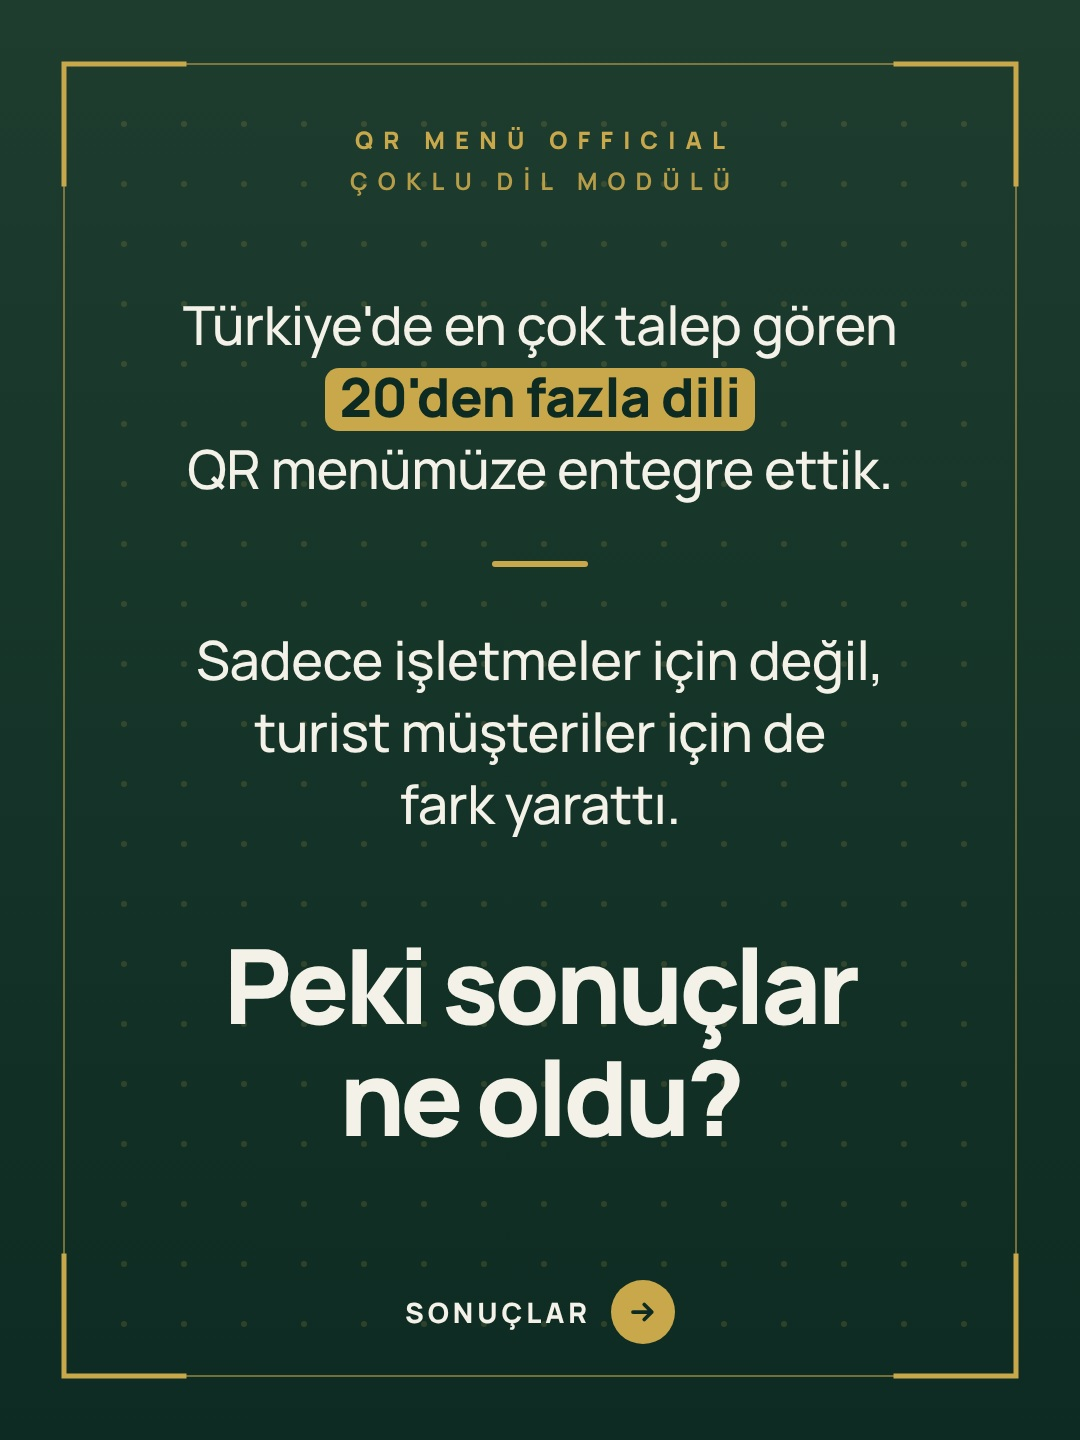
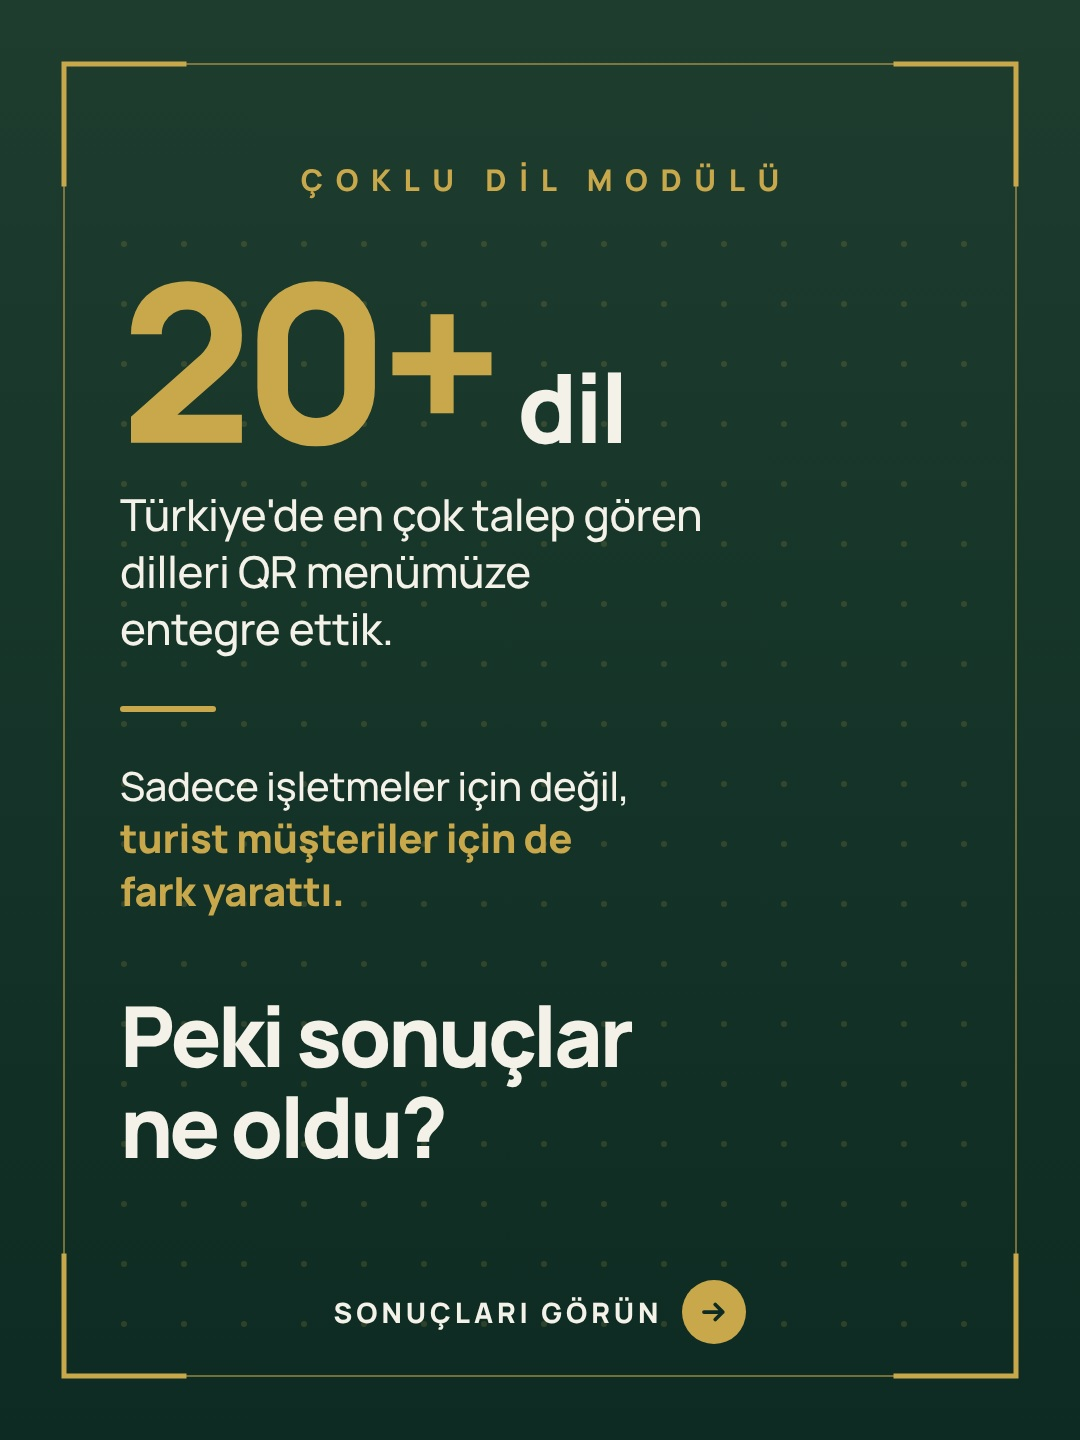
Carousel slayt 3: 20+ dil kahraman rakam, sade hiyerarşi
Claude-Session: https://claude.ai/code/session_01FBw9rVwrniVjyFvtgVdFXq

diff --git a/analiz/carousel-dil/carousel-v6.html b/analiz/carousel-dil/carousel-v6.html
@@ -94,6 +94,13 @@ body{background:linear-gradient(var(--y2),var(--y))!important;color:var(--off)!i
 .q:first-child{border-top:none;padding-top:0}
 .q .t{font-size:42px!important;line-height:1.32!important;font-weight:500}
 .q .t b{color:var(--g)}
+.hero{display:flex;align-items:baseline;gap:24px;line-height:.9}
+.hero .big{font-weight:800;font-size:220px;letter-spacing:-.05em;color:var(--g)}
+.hero .unit{font-weight:800;font-size:96px;letter-spacing:-.03em;color:var(--off)}
+.p3{margin-top:28px;font-weight:500;font-size:44px;line-height:1.3;letter-spacing:-.01em}
+.p4{font-weight:500;font-size:40px;line-height:1.32;letter-spacing:-.01em}
+.p4 b{color:var(--g)}
+.p3 span,.p4 span{display:block;white-space:nowrap}
 </style></head><body>
 <svg class="rg a" width="1080" height="1440" viewBox="0 0 1080 1440" fill="none"><g><circle cx="1200" cy="300" r="180" stroke="#0D2B22" stroke-width="3.0" opacity="0.198"/><circle cx="1200" cy="300" r="300" stroke="#0D2B22" stroke-width="2.6" opacity="0.162"/><circle cx="1200" cy="300" r="420" stroke="#0D2B22" stroke-width="2.2" opacity="0.126"/><circle cx="1200" cy="300" r="540" stroke="#0D2B22" stroke-width="2.0" opacity="0.095"/><circle cx="1200" cy="300" r="660" stroke="#0D2B22" stroke-width="1.6" opacity="0.068"/><circle cx="1200" cy="300" r="780" stroke="#0D2B22" stroke-width="1.4" opacity="0.045"/><circle cx="1200" cy="300" r="900" stroke="#0D2B22" stroke-width="1.2" opacity="0.032"/></g><g><circle cx="-120" cy="1560" r="180" stroke="#0D2B22" stroke-width="2.4" opacity="0.135"/><circle cx="-120" cy="1560" r="300" stroke="#0D2B22" stroke-width="2" opacity="0.099"/><circle cx="-120" cy="1560" r="420" stroke="#0D2B22" stroke-width="1.6" opacity="0.068"/><circle cx="-120" cy="1560" r="520" stroke="#0D2B22" stroke-width="1.3" opacity="0.045"/></g></svg> <svg class="rg z" width="1080" height="1440" viewBox="0 0 1080 1440" fill="none"><g><circle cx="1200" cy="300" r="180" stroke="#C9A84C" stroke-width="3.0" opacity="0.242"/><circle cx="1200" cy="300" r="300" stroke="#C9A84C" stroke-width="2.6" opacity="0.198"/><circle cx="1200" cy="300" r="420" stroke="#C9A84C" stroke-width="2.2" opacity="0.154"/><circle cx="1200" cy="300" r="540" stroke="#C9A84C" stroke-width="2.0" opacity="0.116"/><circle cx="1200" cy="300" r="660" stroke="#C9A84C" stroke-width="1.6" opacity="0.083"/><circle cx="1200" cy="300" r="780" stroke="#C9A84C" stroke-width="1.4" opacity="0.055"/><circle cx="1200" cy="300" r="900" stroke="#C9A84C" stroke-width="1.2" opacity="0.039"/></g><g><circle cx="-120" cy="1560" r="180" stroke="#C9A84C" stroke-width="2.4" opacity="0.165"/><circle cx="-120" cy="1560" r="300" stroke="#C9A84C" stroke-width="2" opacity="0.121"/><circle cx="-120" cy="1560" r="420" stroke="#C9A84C" stroke-width="1.6" opacity="0.083"/><circle cx="-120" cy="1560" r="520" stroke="#C9A84C" stroke-width="1.3" opacity="0.055"/></g></svg>
 <svg class="fr" width="1080" height="1440" viewBox="0 0 1080 1440" fill="none" stroke="#C9A84C" stroke-linecap="square"><rect x="64" y="64" width="952" height="1312" stroke-width="2" opacity=".55"/><g stroke-width="5"><path d="M64 184V64h120M896 64h120v120M1016 1256v120H896M184 1376H64V1256"/></g></svg><svg style="position:absolute;inset:0;z-index:0" width="1080" height="1440" fill="#C9A84C" opacity=".17"><circle cx="124" cy="244" r="3"/><circle cx="124" cy="304" r="3"/><circle cx="124" cy="364" r="3"/><circle cx="124" cy="424" r="3"/><circle cx="124" cy="484" r="3"/><circle cx="124" cy="544" r="3"/><circle cx="124" cy="604" r="3"/><circle cx="124" cy="664" r="3"/><circle cx="124" cy="724" r="3"/><circle cx="124" cy="784" r="3"/><circle cx="124" cy="844" r="3"/><circle cx="124" cy="904" r="3"/><circle cx="124" cy="964" r="3"/><circle cx="124" cy="1024" r="3"/><circle cx="124" cy="1084" r="3"/><circle cx="124" cy="1144" r="3"/><circle cx="124" cy="1204" r="3"/><circle cx="124" cy="1264" r="3"/><circle cx="124" cy="1324" r="3"/><circle cx="184" cy="244" r="3"/><circle cx="184" cy="304" r="3"/><circle cx="184" cy="364" r="3"/><circle cx="184" cy="424" r="3"/><circle cx="184" cy="484" r="3"/><circle cx="184" cy="544" r="3"/><circle cx="184" cy="604" r="3"/><circle cx="184" cy="664" r="3"/><circle cx="184" cy="724" r="3"/><circle cx="184" cy="784" r="3"/><circle cx="184" cy="844" r="3"/><circle cx="184" cy="904" r="3"/><circle cx="184" cy="964" r="3"/><circle cx="184" cy="1024" r="3"/><circle cx="184" cy="1084" r="3"/><circle cx="184" cy="1144" r="3"/><circle cx="184" cy="1204" r="3"/><circle cx="184" cy="1264" r="3"/><circle cx="184" cy="1324" r="3"/><circle cx="244" cy="244" r="3"/><circle cx="244" cy="304" r="3"/><circle cx="244" cy="364" r="3"/><circle cx="244" cy="424" r="3"/><circle cx="244" cy="484" r="3"/><circle cx="244" cy="544" r="3"/><circle cx="244" cy="604" r="3"/><circle cx="244" cy="664" r="3"/><circle cx="244" cy="724" r="3"/><circle cx="244" cy="784" r="3"/><circle cx="244" cy="844" r="3"/><circle cx="244" cy="904" r="3"/><circle cx="244" cy="964" r="3"/><circle cx="244" cy="1024" r="3"/><circle cx="244" cy="1084" r="3"/><circle cx="244" cy="1144" r="3"/><circle cx="244" cy="1204" r="3"/><circle cx="244" cy="1264" r="3"/><circle cx="244" cy="1324" r="3"/><circle cx="304" cy="244" r="3"/><circle cx="304" cy="304" r="3"/><circle cx="304" cy="364" r="3"/><circle cx="304" cy="424" r="3"/><circle cx="304" cy="484" r="3"/><circle cx="304" cy="544" r="3"/><circle cx="304" cy="604" r="3"/><circle cx="304" cy="664" r="3"/><circle cx="304" cy="724" r="3"/><circle cx="304" cy="784" r="3"/><circle cx="304" cy="844" r="3"/><circle cx="304" cy="904" r="3"/><circle cx="304" cy="964" r="3"/><circle cx="304" cy="1024" r="3"/><circle cx="304" cy="1084" r="3"/><circle cx="304" cy="1144" r="3"/><circle cx="304" cy="1204" r="3"/><circle cx="304" cy="1264" r="3"/><circle cx="304" cy="1324" r="3"/><circle cx="364" cy="244" r="3"/><circle cx="364" cy="304" r="3"/><circle cx="364" cy="364" r="3"/><circle cx="364" cy="424" r="3"/><circle cx="364" cy="484" r="3"/><circle cx="364" cy="544" r="3"/><circle cx="364" cy="604" r="3"/><circle cx="364" cy="664" r="3"/><circle cx="364" cy="724" r="3"/><circle cx="364" cy="784" r="3"/><circle cx="364" cy="844" r="3"/><circle cx="364" cy="904" r="3"/><circle cx="364" cy="964" r="3"/><circle cx="364" cy="1024" r="3"/><circle cx="364" cy="1084" r="3"/><circle cx="364" cy="1144" r="3"/><circle cx="364" cy="1204" r="3"/><circle cx="364" cy="1264" r="3"/><circle cx="364" cy="1324" r="3"/><circle cx="424" cy="244" r="3"/><circle cx="424" cy="304" r="3"/><circle cx="424" cy="364" r="3"/><circle cx="424" cy="424" r="3"/><circle cx="424" cy="484" r="3"/><circle cx="424" cy="544" r="3"/><circle cx="424" cy="604" r="3"/><circle cx="424" cy="664" r="3"/><circle cx="424" cy="724" r="3"/><circle cx="424" cy="784" r="3"/><circle cx="424" cy="844" r="3"/><circle cx="424" cy="904" r="3"/><circle cx="424" cy="964" r="3"/><circle cx="424" cy="1024" r="3"/><circle cx="424" cy="1084" r="3"/><circle cx="424" cy="1144" r="3"/><circle cx="424" cy="1204" r="3"/><circle cx="424" cy="1264" r="3"/><circle cx="424" cy="1324" r="3"/><circle cx="484" cy="244" r="3"/><circle cx="484" cy="304" r="3"/><circle cx="484" cy="364" r="3"/><circle cx="484" cy="424" r="3"/><circle cx="484" cy="484" r="3"/><circle cx="484" cy="544" r="3"/><circle cx="484" cy="604" r="3"/><circle cx="484" cy="664" r="3"/><circle cx="484" cy="724" r="3"/><circle cx="484" cy="784" r="3"/><circle cx="484" cy="844" r="3"/><circle cx="484" cy="904" r="3"/><circle cx="484" cy="964" r="3"/><circle cx="484" cy="1024" r="3"/><circle cx="484" cy="1084" r="3"/><circle cx="484" cy="1144" r="3"/><circle cx="484" cy="1204" r="3"/><circle cx="484" cy="1264" r="3"/><circle cx="484" cy="1324" r="3"/><circle cx="544" cy="244" r="3"/><circle cx="544" cy="304" r="3"/><circle cx="544" cy="364" r="3"/><circle cx="544" cy="424" r="3"/><circle cx="544" cy="484" r="3"/><circle cx="544" cy="544" r="3"/><circle cx="544" cy="604" r="3"/><circle cx="544" cy="664" r="3"/><circle cx="544" cy="724" r="3"/><circle cx="544" cy="784" r="3"/><circle cx="544" cy="844" r="3"/><circle cx="544" cy="904" r="3"/><circle cx="544" cy="964" r="3"/><circle cx="544" cy="1024" r="3"/><circle cx="544" cy="1084" r="3"/><circle cx="544" cy="1144" r="3"/><circle cx="544" cy="1204" r="3"/><circle cx="544" cy="1264" r="3"/><circle cx="544" cy="1324" r="3"/><circle cx="604" cy="244" r="3"/><circle cx="604" cy="304" r="3"/><circle cx="604" cy="364" r="3"/><circle cx="604" cy="424" r="3"/><circle cx="604" cy="484" r="3"/><circle cx="604" cy="544" r="3"/><circle cx="604" cy="604" r="3"/><circle cx="604" cy="664" r="3"/><circle cx="604" cy="724" r="3"/><circle cx="604" cy="784" r="3"/><circle cx="604" cy="844" r="3"/><circle cx="604" cy="904" r="3"/><circle cx="604" cy="964" r="3"/><circle cx="604" cy="1024" r="3"/><circle cx="604" cy="1084" r="3"/><circle cx="604" cy="1144" r="3"/><circle cx="604" cy="1204" r="3"/><circle cx="604" cy="1264" r="3"/><circle cx="604" cy="1324" r="3"/><circle cx="664" cy="244" r="3"/><circle cx="664" cy="304" r="3"/><circle cx="664" cy="364" r="3"/><circle cx="664" cy="424" r="3"/><circle cx="664" cy="484" r="3"/><circle cx="664" cy="544" r="3"/><circle cx="664" cy="604" r="3"/><circle cx="664" cy="664" r="3"/><circle cx="664" cy="724" r="3"/><circle cx="664" cy="784" r="3"/><circle cx="664" cy="844" r="3"/><circle cx="664" cy="904" r="3"/><circle cx="664" cy="964" r="3"/><circle cx="664" cy="1024" r="3"/><circle cx="664" cy="1084" r="3"/><circle cx="664" cy="1144" r="3"/><circle cx="664" cy="1204" r="3"/><circle cx="664" cy="1264" r="3"/><circle cx="664" cy="1324" r="3"/><circle cx="724" cy="244" r="3"/><circle cx="724" cy="304" r="3"/><circle cx="724" cy="364" r="3"/><circle cx="724" cy="424" r="3"/><circle cx="724" cy="484" r="3"/><circle cx="724" cy="544" r="3"/><circle cx="724" cy="604" r="3"/><circle cx="724" cy="664" r="3"/><circle cx="724" cy="724" r="3"/><circle cx="724" cy="784" r="3"/><circle cx="724" cy="844" r="3"/><circle cx="724" cy="904" r="3"/><circle cx="724" cy="964" r="3"/><circle cx="724" cy="1024" r="3"/><circle cx="724" cy="1084" r="3"/><circle cx="724" cy="1144" r="3"/><circle cx="724" cy="1204" r="3"/><circle cx="724" cy="1264" r="3"/><circle cx="724" cy="1324" r="3"/><circle cx="784" cy="244" r="3"/><circle cx="784" cy="304" r="3"/><circle cx="784" cy="364" r="3"/><circle cx="784" cy="424" r="3"/><circle cx="784" cy="484" r="3"/><circle cx="784" cy="544" r="3"/><circle cx="784" cy="604" r="3"/><circle cx="784" cy="664" r="3"/><circle cx="784" cy="724" r="3"/><circle cx="784" cy="784" r="3"/><circle cx="784" cy="844" r="3"/><circle cx="784" cy="904" r="3"/><circle cx="784" cy="964" r="3"/><circle cx="784" cy="1024" r="3"/><circle cx="784" cy="1084" r="3"/><circle cx="784" cy="1144" r="3"/><circle cx="784" cy="1204" r="3"/><circle cx="784" cy="1264" r="3"/><circle cx="784" cy="1324" r="3"/><circle cx="844" cy="244" r="3"/><circle cx="844" cy="304" r="3"/><circle cx="844" cy="364" r="3"/><circle cx="844" cy="424" r="3"/><circle cx="844" cy="484" r="3"/><circle cx="844" cy="544" r="3"/><circle cx="844" cy="604" r="3"/><circle cx="844" cy="664" r="3"/><circle cx="844" cy="724" r="3"/><circle cx="844" cy="784" r="3"/><circle cx="844" cy="844" r="3"/><circle cx="844" cy="904" r="3"/><circle cx="844" cy="964" r="3"/><circle cx="844" cy="1024" r="3"/><circle cx="844" cy="1084" r="3"/><circle cx="844" cy="1144" r="3"/><circle cx="844" cy="1204" r="3"/><circle cx="844" cy="1264" r="3"/><circle cx="844" cy="1324" r="3"/><circle cx="904" cy="244" r="3"/><circle cx="904" cy="304" r="3"/><circle cx="904" cy="364" r="3"/><circle cx="904" cy="424" r="3"/><circle cx="904" cy="484" r="3"/><circle cx="904" cy="544" r="3"/><circle cx="904" cy="604" r="3"/><circle cx="904" cy="664" r="3"/><circle cx="904" cy="724" r="3"/><circle cx="904" cy="784" r="3"/><circle cx="904" cy="844" r="3"/><circle cx="904" cy="904" r="3"/><circle cx="904" cy="964" r="3"/><circle cx="904" cy="1024" r="3"/><circle cx="904" cy="1084" r="3"/><circle cx="904" cy="1144" r="3"/><circle cx="904" cy="1204" r="3"/><circle cx="904" cy="1264" r="3"/><circle cx="904" cy="1324" r="3"/><circle cx="964" cy="244" r="3"/><circle cx="964" cy="304" r="3"/><circle cx="964" cy="364" r="3"/><circle cx="964" cy="424" r="3"/><circle cx="964" cy="484" r="3"/><circle cx="964" cy="544" r="3"/><circle cx="964" cy="604" r="3"/><circle cx="964" cy="664" r="3"/><circle cx="964" cy="724" r="3"/><circle cx="964" cy="784" r="3"/><circle cx="964" cy="844" r="3"/><circle cx="964" cy="904" r="3"/><circle cx="964" cy="964" r="3"/><circle cx="964" cy="1024" r="3"/><circle cx="964" cy="1084" r="3"/><circle cx="964" cy="1144" r="3"/><circle cx="964" cy="1204" r="3"/><circle cx="964" cy="1264" r="3"/><circle cx="964" cy="1324" r="3"/></svg><div class="s" id="S"></div>
@@ -131,11 +138,14 @@ const SL={
   <div class="q"><div class="n">2</div><div class="t">${B(`Garson bir masayla el kol hareketiyle anlaşırken, bekleyen diğer masalardaki {{kaybı ölçebiliyor musunuz?}}`)}</div></div>
   <div class="q"><div class="n">3</div><div class="t">${B(`Anlaşılamayan turistin Google ve TripAdvisor'daki düşük puanı,<br>{{yeni müşterinizi etkiliyor mu?}}`)}</div></div>
  </div></div>${nx('Çözümü görün','#F4F1E8')}`},
-3:{bg:'krem',html:()=>`<div class="lab">${MOD}</div>
- <div class="area c"><div class="p" id="P" data-max="54" data-min="44">${L(["Türkiye'de en çok talep gören","[[20'den fazla dili]]","QR menümüze entegre ettik."])}</div>
- <div class="rule" style="margin:56px 0"></div>
- <div class="p" id="P2" data-max="54" data-min="44">${L(['Sadece işletmeler için değil,','turist müşteriler için de','fark yarattı.'])}</div>
- <div class="h" id="H" data-max="104" data-min="80" style="margin-top:88px">${L(['Peki sonuçlar','ne oldu?'])}</div></div>${nx('Sonuçlar','#F4F1E8')}`},
+3:{bg:'krem',html:()=>`<div class="lab" style="font-size:30px;padding-top:34px">ÇOKLU DİL MODÜLÜ</div>
+ <div class="area top" style="top:236px;bottom:240px">
+  <div class="hero"><span class="big">20+</span><span class="unit">dil</span></div>
+  <div class="p3" id="P3">${L(["Türkiye'de en çok talep gören","dilleri QR menümüze","entegre ettik."])}</div>
+  <div class="rule" style="margin:48px 0"></div>
+  <div class="p4" id="P4">${L(['Sadece işletmeler için değil,','{{turist müşteriler için de}}','{{fark yarattı.}}'])}</div>
+  <div class="h" id="H" data-max="84" data-min="68" style="margin-top:72px">${L(['Peki sonuçlar','ne oldu?'])}</div>
+ </div>${nx('Sonuçları görün','#F4F1E8')}`},
 4:{bg:'krem',html:()=>`<div class="lab">${MOD}</div>
  <div class="area top"><div class="h" id="H" data-max="84" data-min="64">${L(['[[Sonuçlar:]]'])}</div>
  <div style="margin-top:40px">
